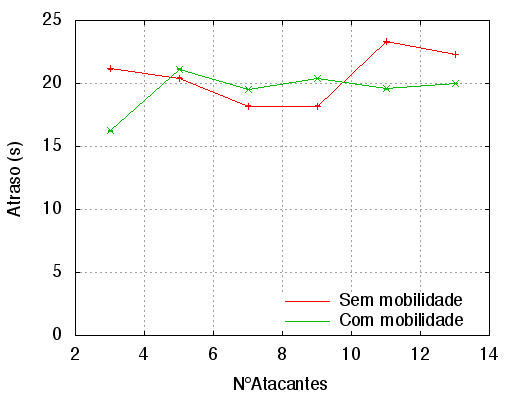
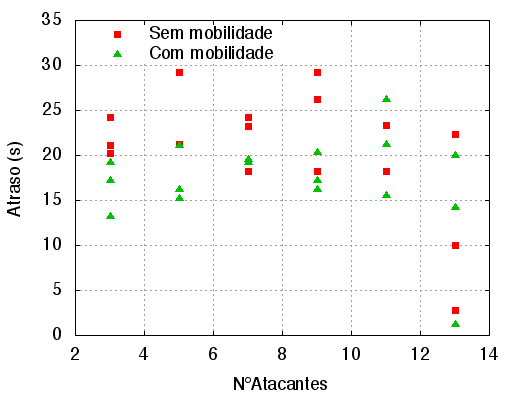
Novo script ic-2. Alteração no v2vtracer.
Agora tem arquivo para gerar gráfico de dispersão do atraso.
E o v2vtracer imprime quantidade de drop.

diff --git a/extensions/v2v-tracer.cc b/extensions/v2v-tracer.cc
@@ -40,6 +40,7 @@
 #include "ns3/ndn-face.h"
 #include "ns3/ndn-interest.h"
 #include "ns3/ndn-content-object.h"
+#include <ndn-header-helper.h>
 
 #include <fstream>
 #include <boost/lexical_cast.hpp>
@@ -425,6 +426,37 @@ namespace ns3 {
             // NS_LOG_INFO( "Dropping packet due to noise or error model calculation." );
             *m_os << Simulator::Now ().ToDouble (Time::S) << "\t"
             << m_node << "\t" << "Canceling transmission" << "\t" << *packet/*->PeekPacketTag<CcnxNameComponentsTag> ()->GetName ()->GetLastComponent ()*/ << "\n";
+            
+            std::string packet_name("");
+            std::list<std::string> components = *packet->PeekPacketTag<CcnxNameComponentsTag> ()->GetName ().GetComponents();
+            std::list<std::string>::const_iterator i;
+            for (i=components.begin(); i!=components.end(); i++)
+            {
+                packet_name = packet_name.append("/");
+                packet_name = packet_name.append(*i);
+            }
+            
+	    std::string type("O");
+	    
+            if(ns3::ndn::HeaderHelper.GetNdnHeaderType (packet) == ns3::ndn::HeaderHelper::INTEREST_NDNSIM)
+	    {
+	        type = "I";
+	    }
+	    if(ns3::ndn::HeaderHelper.GetNdnHeaderType (packet) == ns3::ndn::HeaderHelper::CONTENT_OBJECT_NDNSIM)
+	    {
+	        type = "D";
+	    }
+	    if(ns3::ndn::HeaderHelper.GetNdnHeaderType (packet) == ns3::ndn::HeaderHelper::INTEREST_CCNB)
+	    {
+	        type = "IC";
+	    }
+	    if(ns3::ndn::HeaderHelper.GetNdnHeaderType (packet) == ns3::ndn::HeaderHelper::CONTENT_OBJECT_CCNB)
+	    {
+	        type = "DC";
+	    }
+	    
+            
+            cout<<"drop "<<m_node<<" "<<packet_name<<" "<<type<<" "<<Simulator::Now ().ToDouble (Time::S);
         }
         
     } // namespace ndn
